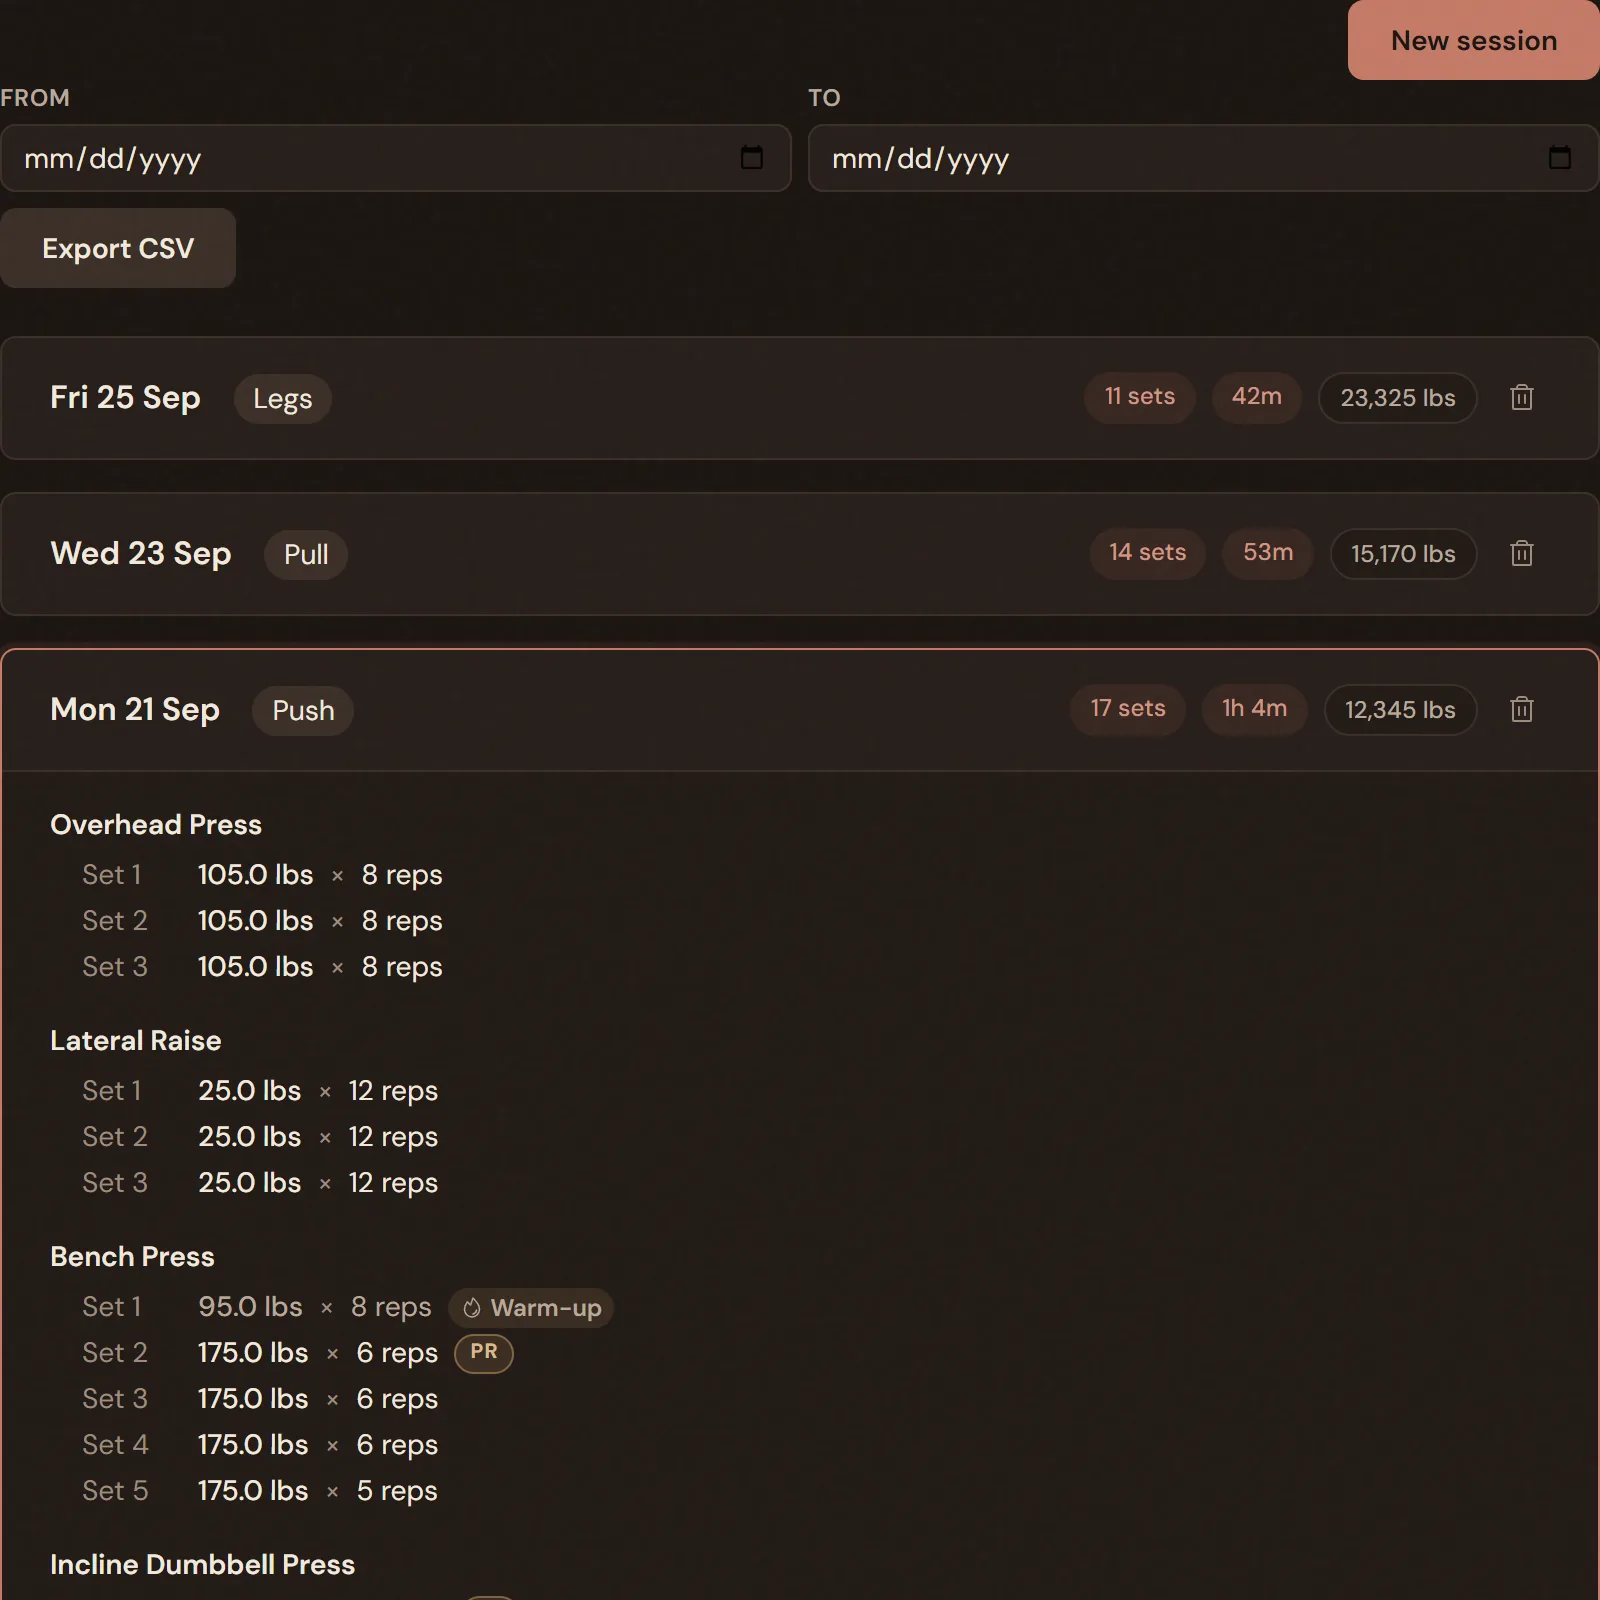
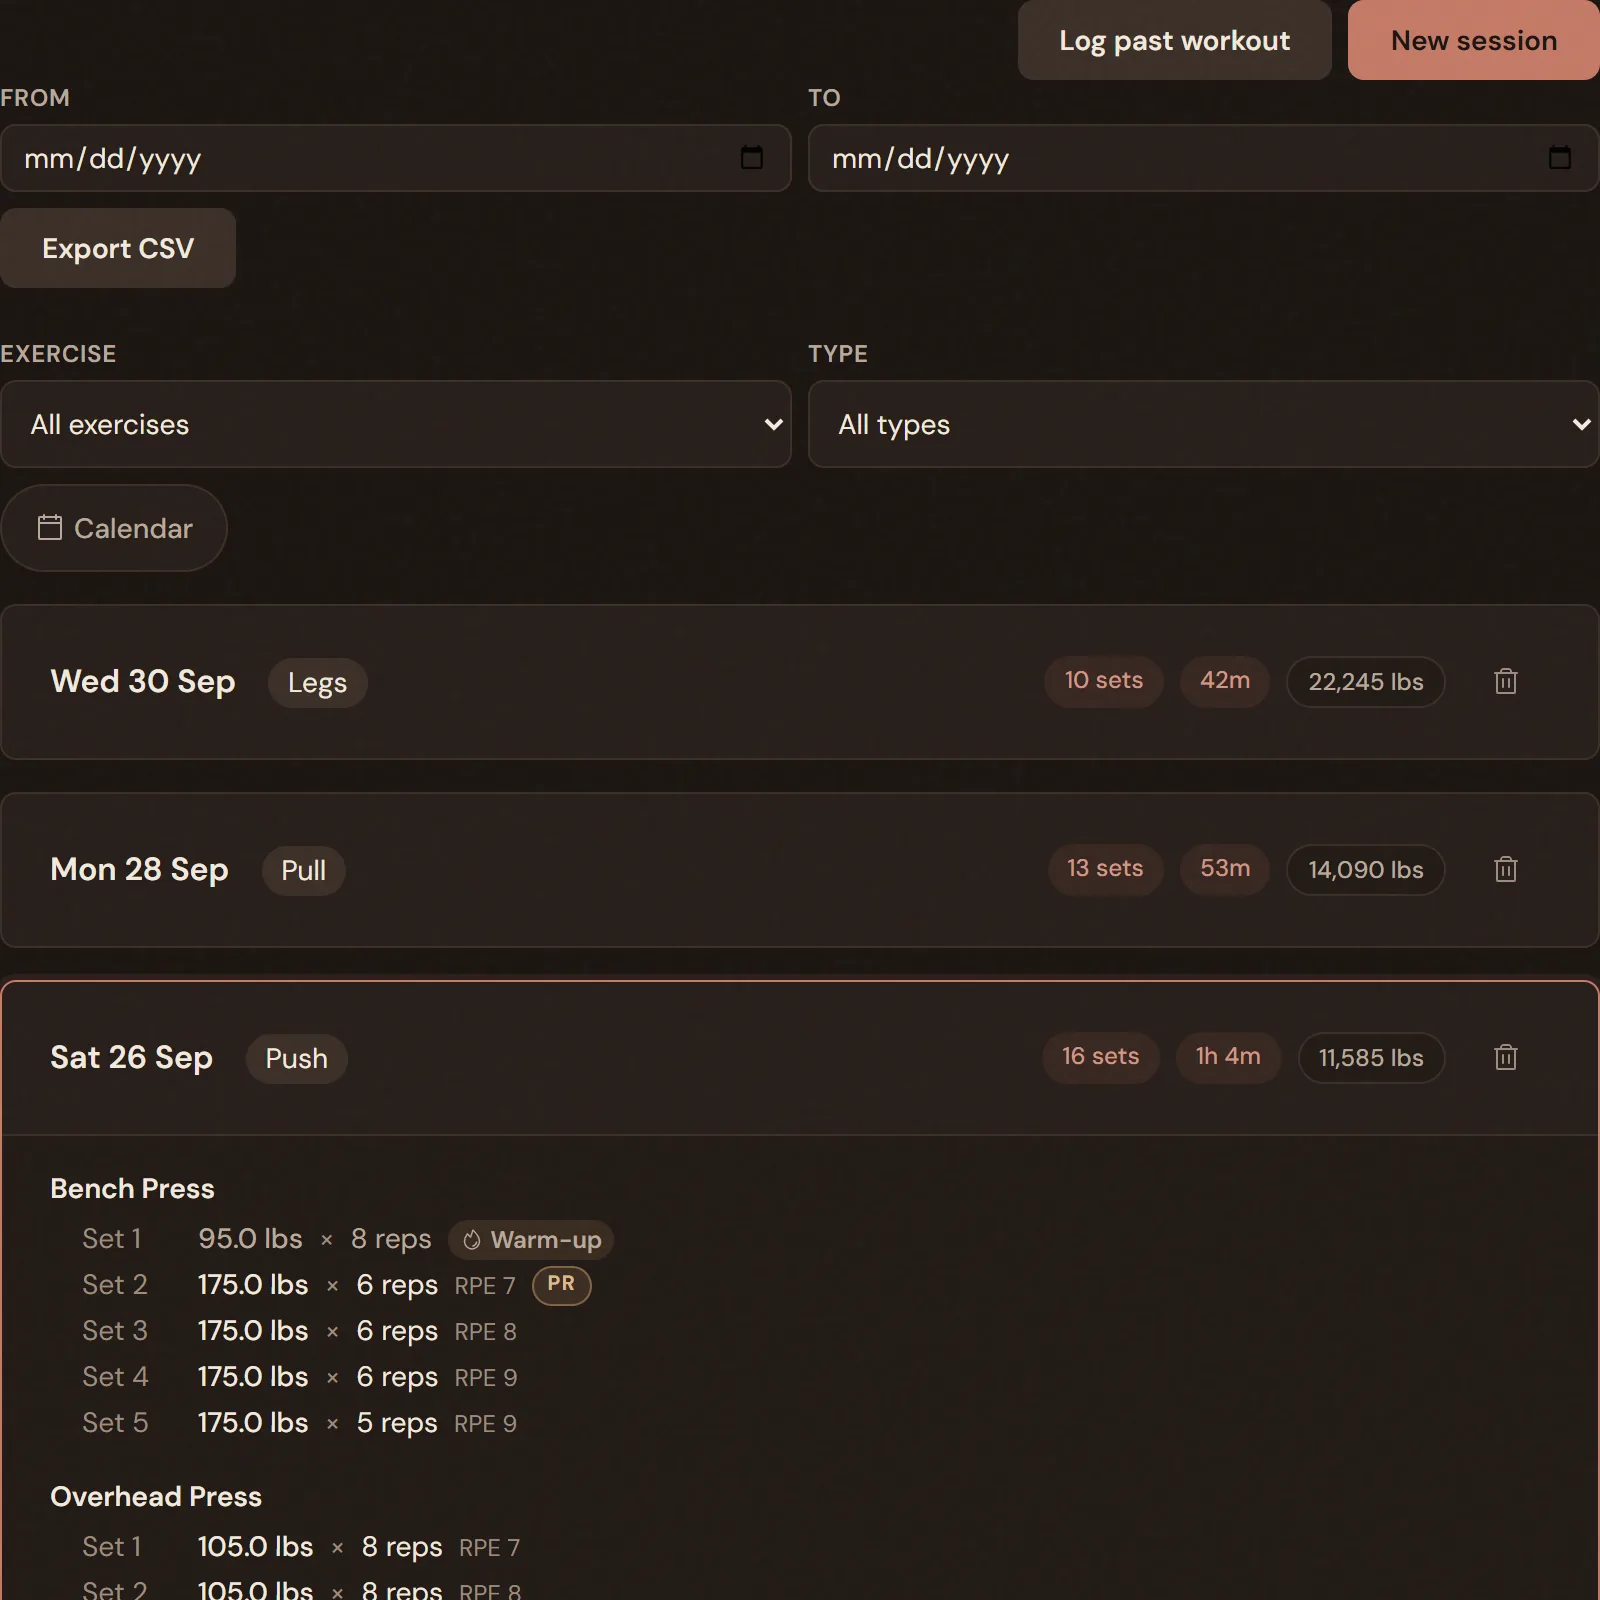
docs(jym): exercise charts by date and workouts; history filters and calendar
- JYM-FEATURES: the exercise page's ranges, date axis, Reps @ Weight and
  workouts list; history's Exercise and Type filters, the month calendar and
  the URL state; the Activity panel's Open calendar.
- Guide: both steps updated, and the exercise page and Track shots re-taken.

diff --git a/jiro-ui/src/app/features/guide/jym/jym-guide.ts b/jiro-ui/src/app/features/guide/jym/jym-guide.ts
@@ -37,16 +37,17 @@ import { GUIDE } from '../shared';
       </guide-section>
 
       <guide-section id="check-an-exercise" title="Check an exercise's progress"
-        lead="Each exercise has its own page with your best lifts, a chart and every set you have logged.">
+        lead="Each exercise has its own page with your best lifts, a chart and every workout it was in.">
         <guide-steps>
           <li>In <a routerLink="/jym/exercises">Exercises</a>, select an exercise.</li>
           <li>The top shows your <strong>Best weight</strong> and <strong>Est. 1RM</strong>, the most you could likely lift once, worked out from your weight and reps.</li>
           <li>Switch the chart between <strong>Est. 1RM</strong>, <strong>Volume</strong>, <strong>Max weight</strong> and <strong>Reps &#64; Weight</strong>. For Reps &#64; Weight, choose a weight from the list.</li>
-          <li>Below the chart, <strong>Set history</strong> lists every set. Select a column heading to sort by it.</li>
+          <li>Choose <strong>3M</strong>, <strong>1Y</strong> or <strong>All</strong> to set how far back the chart goes. Workouts sit at their real dates, so a break from training shows as a gap.</li>
+          <li>Below the chart, <strong>Workouts</strong> lists every workout with this exercise, newest first, with its sets. Select one to open its summary, and <strong>Show older workouts</strong> to go further back. <strong>See all workouts with</strong> the exercise opens them in Track.</li>
           <li><strong>Form progression</strong> shows the form check clips you added during workouts, and <strong>Notes</strong> shows the notes you wrote for this exercise.</li>
         </guide-steps>
         <guide-shot guide="jym" name="exercise-detail" [width]="1600" [height]="1422"
-          alt="The Bench Press page: Best weight 175.0 lbs and Est. 1RM 210.1 lbs, a note, the Est. 1RM chart rising from 17 Aug to 21 Sep, and the Set history, Form progression and Notes tabs." />
+          alt="The Bench Press page: Best weight 175.0 lbs and Est. 1RM 210.1 lbs, a note, the Est. 1RM chart with 3M, 1Y and All, rising from August to late September, and the Workouts, Form progression and Notes tabs." />
         <guide-tip>If your top weight has stayed the same, or dropped, over your last three sessions of an exercise, its page says so and suggests what to try.</guide-tip>
       </guide-section>
 
@@ -166,6 +167,7 @@ import { GUIDE } from '../shared';
         lead="Every finished workout is listed in Track, newest first.">
         <guide-steps>
           <li>Open <a routerLink="/jym/track">Track</a>. Each workout shows its date, day, sets, time and volume.</li>
+          <li>To narrow the list, choose an <strong>Exercise</strong> or a <strong>Type</strong> (Regular, Deload or Test). <strong>Calendar</strong> shows a month with a dot on each day you trained: select a day to list just that day, and select it again to list every day. <strong>Clear filters</strong> shows everything again.</li>
           <li>Select a workout to see every set, with PR badges, warm-ups, RPE and exercise notes, plus its notes and any form check clips. <strong>View summary</strong> opens its summary, and <strong>See this day</strong> opens everything else you logged that day.</li>
           <li>On a summary, <strong>Edit workout</strong> opens the workout to add a set you forgot, or change or remove one. Select <strong>Done</strong> when you're finished. Records are worked out as of that workout's date.</li>
           <li><strong>Edit times</strong> fixes when the workout started or finished, as long as the times still include every set you logged. <strong>Repeat workout</strong> starts it again with the same exercises.</li>
@@ -173,7 +175,7 @@ import { GUIDE } from '../shared';
           <li>To download your workouts as a spreadsheet, optionally choose <strong>From</strong> and <strong>To</strong> dates, then select <strong>Export CSV</strong>.</li>
         </guide-steps>
         <guide-shot guide="jym" name="track-sessions" [width]="1600" [height]="1600"
-          alt="Track, Sessions: date fields and Export CSV above a list of workouts, with the Push workout of Mon 21 Sep open to show its sets, and on Bench Press a set marked Warm-up and a PR." />
+          alt="Track, Sessions: Export CSV, then the Exercise and Type filters and a Calendar button above the list of workouts, with the Push workout of Sat 26 Sep open to show its sets, and on Bench Press a set marked Warm-up and a PR." />
       </guide-section>
 
       <guide-section id="see-your-personal-records" title="See your personal records"

diff --git a/docs/JYM-FEATURES.md b/docs/JYM-FEATURES.md
@@ -10,11 +10,11 @@ Jym is the gym tracking module of Jiro. This document describes how each user-fa
 |---|---|
 | `/jym` | Hub: in progress, up next, series, heatmap, muscle tracker, splits, templates |
 | `/jym/exercises` | Exercise library; `?tab=prs` for the PR wall |
-| `/jym/exercises/:id` | Exercise detail with 1RM chart |
+| `/jym/exercises/:id` | Exercise detail: charts by date, its workouts, form checks and notes |
 | `/jym/plan` | Splits; `?tab=series` and `?tab=templates` |
 | `/jym/splits/:id` | Split builder |
 | `/jym/series/:id` | Series detail with progression charts |
-| `/jym/track` | Session history; `?tab=bodyweight` for the body weight log |
+| `/jym/track` | Session history (filters in `?exercise=&type=&day=`, `?calendar=1`); `?tab=bodyweight` for the body weight log |
 | `/jym/session/:id` | Live session player |
 | `/jym/sessions/:id/summary` | Workout summary |
 | `/jym/sessions/:id/edit` | Fixing a finished workout |
@@ -184,18 +184,29 @@ Sessions at `/jym/track?tab=sessions`, 50 at a time with "Show older sessions", 
 
 Click a session to see its sets by exercise (with RPE and the exercise note), its notes and form-check clips, and links to **View summary** (or **Resume workout** for an open one) and **See this day**. An open workout is marked "In progress".
 
+### Filters and Calendar
+- **Exercise** keeps the workouts with a set of that exercise; **Type** keeps Regular, Deload or Test workouts. Both apply on the server (`GET /jym/sessions?exercise_id=&type=`), so "Show older sessions" keeps paging through the filtered list.
+- **Calendar** opens a month, Monday first, with a dot on each day that has a workout, counted on your timezone's day (an 11:30 pm workout is on that day, not the next). It follows the Exercise and Type filters, and days after today can't be picked.
+- Select a day to list only its workouts; select it again to list every day. **Clear filters** resets all three.
+- The filters live in the URL (`?exercise=&type=&day=`, and `?calendar=1` while the calendar is open), so a reload keeps them and links can open history already filtered: an exercise's **See all workouts with ...**, and the Jym home's **Open calendar**.
+- With nothing matching, the empty state names the filter ("No deload workouts with Bench Press").
+
 ---
 
-## Exercise Detail & 1RM Chart
+## Exercise Detail & Charts
 
 At `/jym/exercises/:id`:
 
 - **Header**: exercise name, muscle group, best weight ever and the best estimated 1RM, from working sets outside deloads.
-- **1RM Line Chart**: estimated 1RM (see How Jym counts) plotted per session over time. Uses the best set from each session.
-- **History Table**: every logged set with its date, weight × reps, estimated 1RM, and whether it was a PR at the time.
+- **Charts**: **Est. 1RM** (the best set's, see How Jym counts), **Volume** and **Max weight**, one point per workout from `GET /jym/exercises/:id/stats`. Deloads and workouts with only warm-ups are left out.
+  - Points sit at their real dates on a date axis with month ticks, so a break shows as a gap.
+  - **3M**, **1Y** and **All** set the range; the page opens on 1Y when the history goes back more than a year, otherwise All. The Est. 1RM tooltip names the set behind each point.
+- **Reps @ Weight**: the reps of each working set at one weight, per workout, outside deloads. Its data is fetched when it's picked (`GET /jym/exercises/:id/reps-at?weight=`).
+- **Workouts**: every workout with this exercise, newest first, ten at a time (`GET /jym/exercises/:id/workouts`). Each shows its date, day, type, the exercise note and its sets (warm-ups marked W, RPE, estimated 1RM, PR badges), and links to its summary, or to the player while it's open. **See all workouts with ...** opens them in history.
+- **Form progression** shows the form-check clips; **Notes** lists the exercise notes, one per workout, newest first.
 
 ### Plateau & Decline Detection
-Computed from finished normal workouts, never warm-ups (`plateau-rule.ts`, covered by `npm run test:unit`):
+Computed from the stats rows of finished normal workouts with a working set (`plateau-rule.ts`, covered by `npm run test:unit`):
 - Each workout is measured by its best set's estimated 1RM, or by reps when the sets compared are all bodyweight.
 - The best of the last 3 workouts is set against the best of the up to 3 before them (so it needs 4 or more).
 - **No banner** when the recent best is higher: 100×5 → 100×6 → 100×7 is progress.
@@ -232,6 +243,7 @@ A GitHub-style contribution grid showing the last 16 weeks of workout activity.
 - Each cell is one day. Colour intensity indicates how many sessions were logged that day.
 - Darker = more sessions; empty = rest day.
 - Hover a cell to see the date.
+- **Open calendar** below it opens history's month calendar. The cells themselves stay unlinked: at about 12 px they are too small to tap reliably.
 
 ### Muscle Group Frequency Tracker
 Below the heatmap, a list of every muscle group you have trained, sorted by most recently trained.
